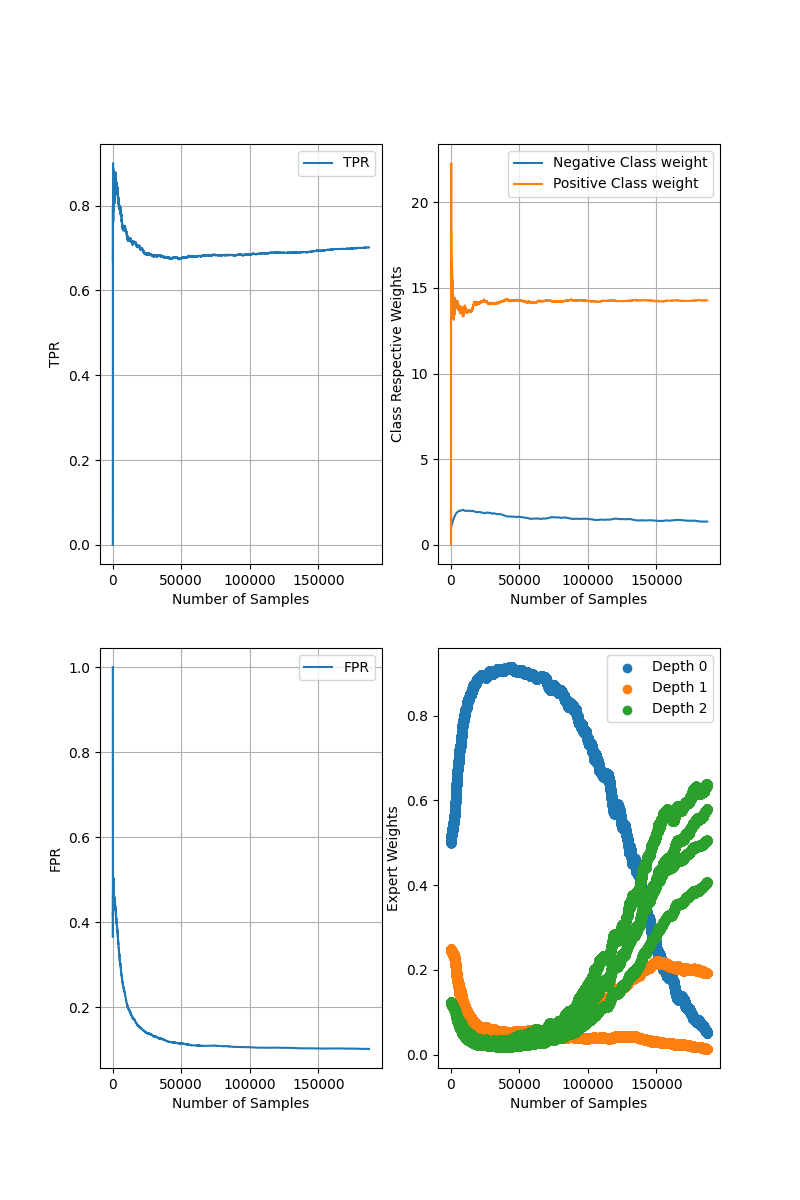
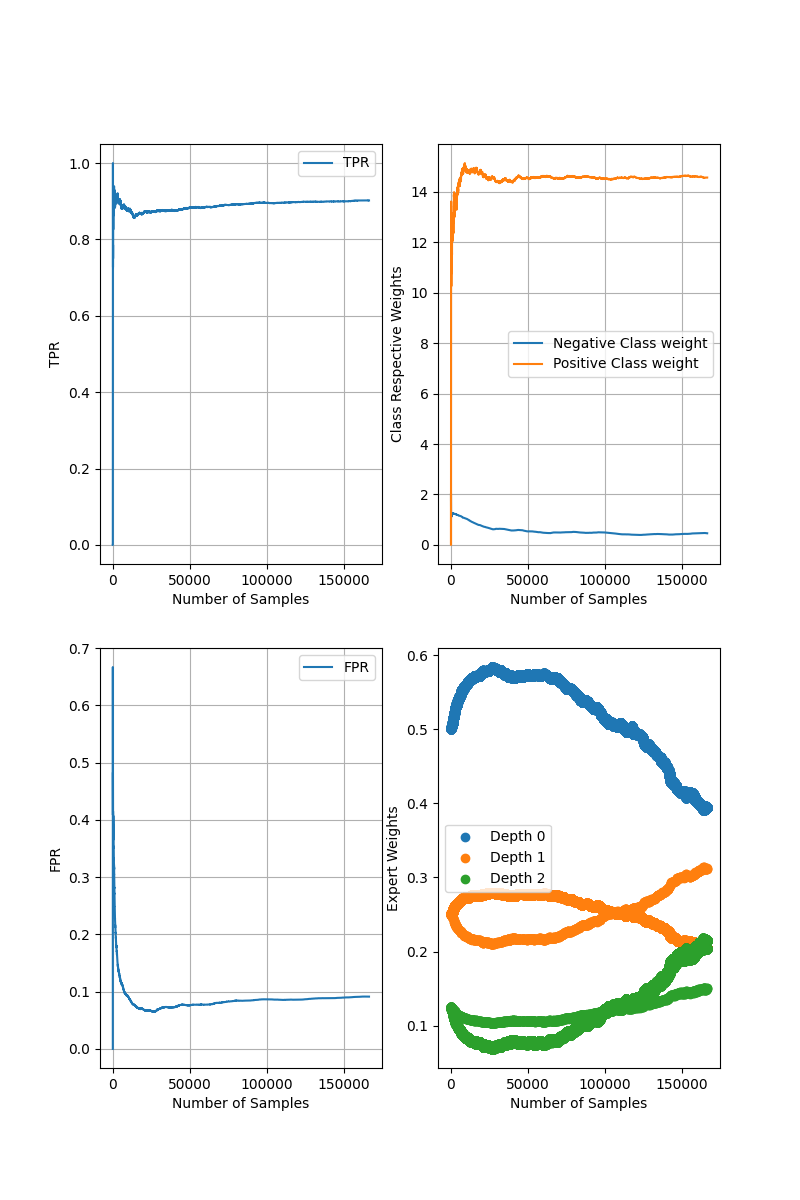
updated for test

diff --git a/main_video.py b/main_video.py
@@ -10,13 +10,24 @@ from tree_olnp.tree_olnp import tree_olnp
 # main 
 # np-nn works for 1,-1 classification
 # we expect data to be in tabular form with the latest column as target (check ./data/banana.csv)
-data = pd.read_csv('./data/ucsdped2.csv')
-X = data.iloc[:,:-1].values
-y = data.iloc[:,-1].values
+#data = pd.read_csv('./data/ucsdped2.csv')
+#X = data.iloc[:,:-1].values
+#y = data.iloc[:,-1].values
 
 # train test split
 # add time based for video
-X_train, X_test, y_train, y_test = train_test_split(X, y, test_size=0.2)
+#X_train, X_test, y_train, y_test = train_test_split(X, y, test_size=0.2)
+
+#train = pd.read_csv('./data/train_img_features.csv')
+#test = pd.read_csv('./data/test_ucsdped2_img_features.csv')
+
+train = pd.read_csv('./data/train_dynamic_img_features.csv')
+test = pd.read_csv('./data/test_ucsdped2_dyn_img_features.csv')
+
+X_train = train.iloc[:, :-1].values
+y_train = train.iloc[:, -1].values
+X_test = test.iloc[:, :-1].values
+y_test = test.iloc[:, -1].values
 
 # normalization
 sc = StandardScaler()
